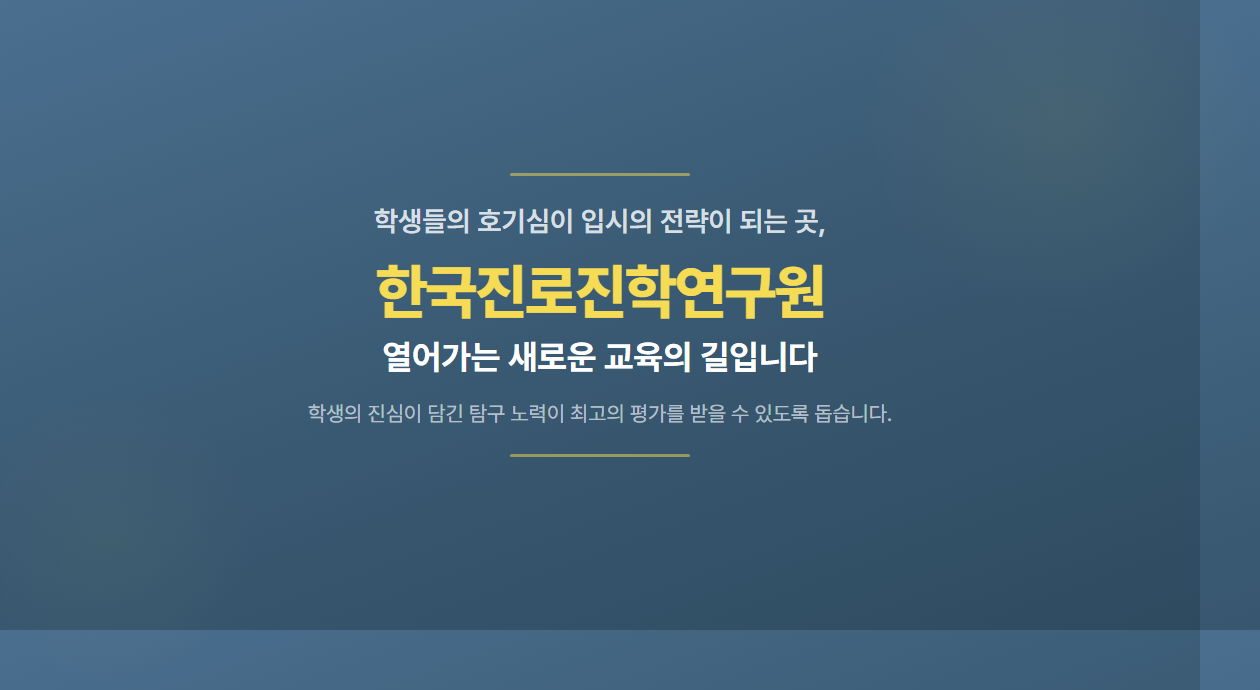
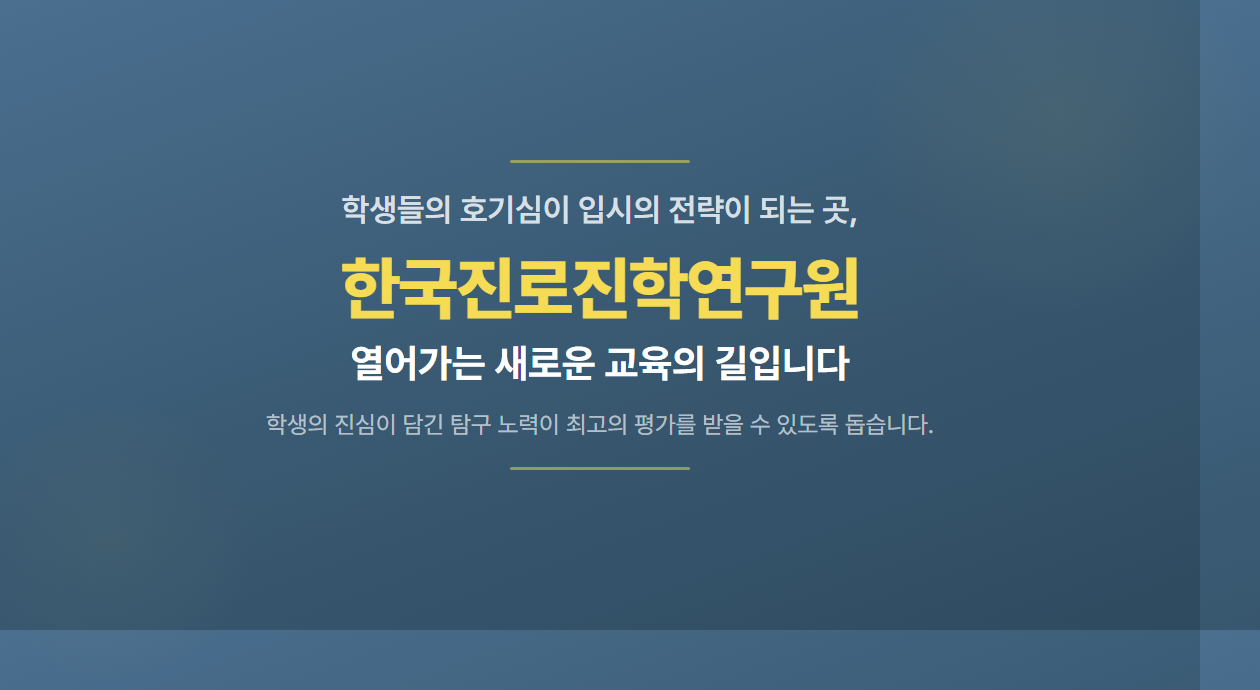
Increase OG image text size by 15% for better readability

Changed region(s): [[0.2167, 0.3652, 0.7429, 0.7], [0.2476, 0.213, 0.681, 0.3348]]

diff --git a/og-image.html b/og-image.html
@@ -47,27 +47,27 @@ body {
   margin-bottom: 28px;
 }
 .intro {
-  font-size: 28px;
+  font-size: 32px;
   font-weight: 600;
   color: #e8eef3;
   opacity: 0.9;
   margin-bottom: 18px;
 }
 .title {
-  font-size: 60px;
+  font-size: 69px;
   font-weight: 800;
   color: #F6DC55;
   letter-spacing: -2px;
   margin-bottom: 10px;
 }
 .subtitle {
-  font-size: 34px;
+  font-size: 39px;
   font-weight: 700;
   color: #ffffff;
   margin-bottom: 24px;
 }
 .desc {
-  font-size: 21px;
+  font-size: 24px;
   font-weight: 400;
   color: #e8eef3;
   opacity: 0.7;
